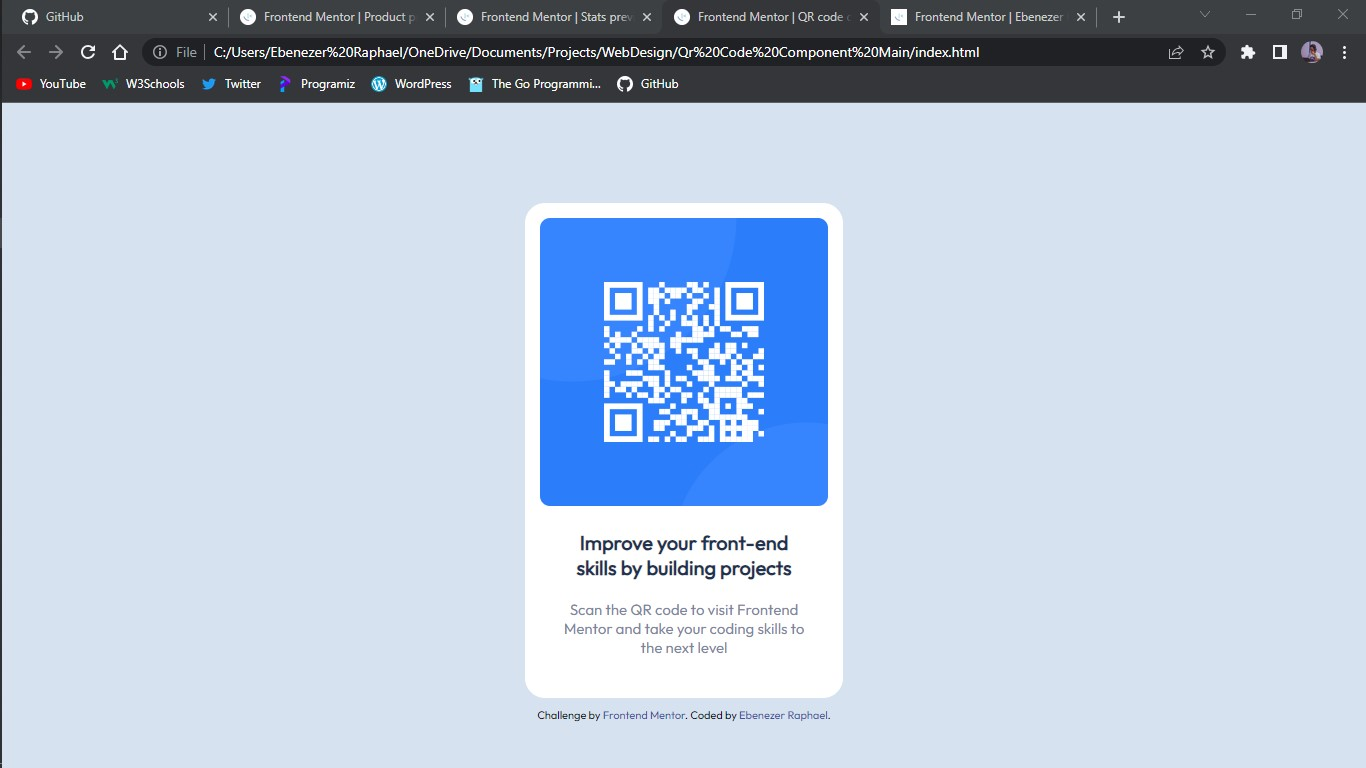
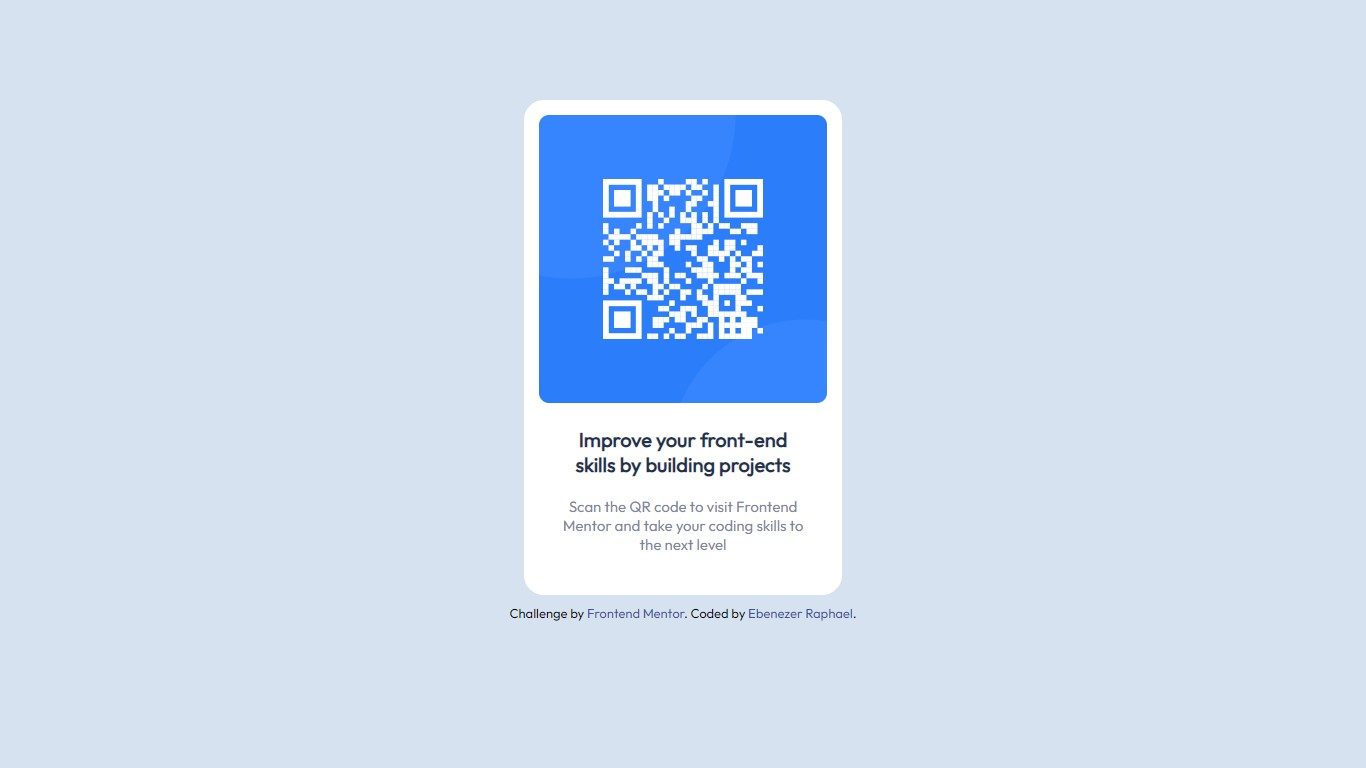
Commit

Changed region(s): [[0.0, 0.0, 1.0, 0.9375]]

diff --git a/index.html b/index.html
@@ -8,16 +8,16 @@
   <title>Frontend Mentor | QR code component</title>
 </head>
 <body>
-  <div class="qrcode">
+  <div class="qr-code">
     <img src="images/image-qr-code.png" width="288px" height="288px" alt="qr-code">
     <div class="info">
-      <div class="infoheader">Improve your front-end skills by building projects</div>
-      <div class="infocontent">Scan the QR code to visit Frontend Mentor and take your coding skills to the next level</div>
+      <div class="info-header">Improve your front-end skills by building projects</div>
+      <div class="info-content">Scan the QR code to visit Frontend Mentor and take your coding skills to the next level</div>
     </div>
   </div>
   <div class="attribution">
     Challenge by <a href="https://www.frontendmentor.io?ref=challenge" target="_blank">Frontend Mentor</a>. 
-    Coded by <a href="https://www.frontendmentor.io/profile/Ebenezer-Raphael" target="_blank" >Ebenezer Raphael</a>.
+    Coded by <a href="https://www.frontendmentor.io/profile/ebenezerraph" target="_blank" >Ebenezer Raphael</a>.
   </div>
 </body>
 </html>

diff --git a/styles.css b/styles.css
@@ -7,25 +7,25 @@ body {
     font-family: "Outfit";
 }
 .attribution {
-    font-size: 11px;
+    font-size: 13px;
     text-align: center;
 }
 .attribution a {
     color: hsl(228, 45%, 44%);
     text-decoration: none;
 }
-.infoheader {
+.info-header {
     color: hsl(218, 44%, 22%);
     font-weight: 800;
     font-size: 20px;
     margin-bottom: 20px;
 }
-.infocontent {
+.info-content {
     color: hsl(220, 15%, 55%);
     font-weight: 400;
     font-size: 15px;
 }
-.qrcode {
+.qr-code {
     border-radius: 20px;
     background-color: hsl(0, 0%, 100%);
     width: 288px;
